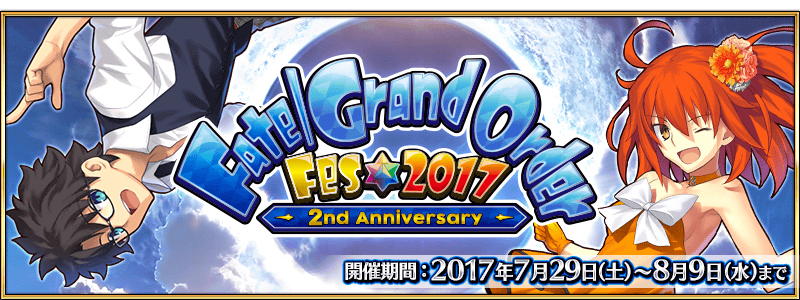
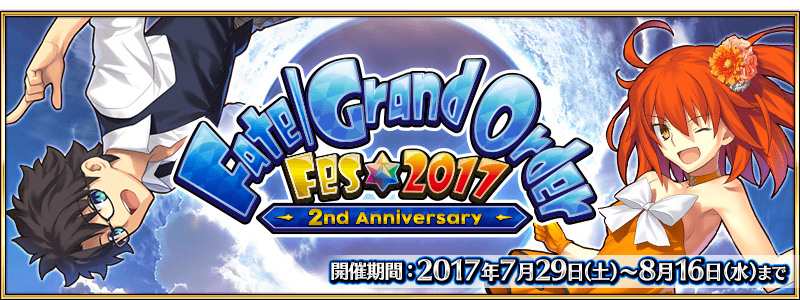
「FGO Fes. 2017 ～2nd Anniversary～」の開催期間延長

diff --git a/event_2nd_fgofes2017.html b/event_2nd_fgofes2017.html
@@ -61,7 +61,11 @@
 <p><img alt="" height="300" src="common/images/2017/2nd_fgofes2017_full_lipxg/info_image_01.png" width="800"/></p>
 <!-- block -->
 <p><span class="diamond">◆</span><span class="strong">活動舉辦期間</span><span class="diamond">◆</span><br/>
-<span class="em01">2017年7月29日(六) 8:00～8月9日(三) 11:59</span></p>
+<span class="em01">2017年7月29日(六) 8:00～<s>8月9日(三) 11:59</s><span class="notice">8月16日(三) 11:59<br/>
+※延長舉辦期間。</span><br/>
+※遊戲內的顯示中會有結束時間未變更的情況。<br/>
+　將會依序對應。<br/>
+※(8/7修正)</span></p>
 <!-- block -->
 <p style="margin-bottom: 5px;"><img alt="" src="common/images/2017/2nd_fgofes2017_full_lipxg/ca10_banner.png"/></p>
 <!-- block -->
@@ -146,7 +150,7 @@
 <table align="center" style=";" width="100%">
 <tbody>
 <tr>
-<th width="30%">連続登入<br/>日數</th>
+<th width="30%">連續登入<br/>天數</th>
 <th width="70%">禮物內容</th>
 </tr>
 <tr>
@@ -179,6 +183,53 @@
 </tr>
 </tbody>
 </table>
+<br/>
+<p class="em01">※(8/7 追記)<br/>
+2017年8月2日(三)17:00以後，由於一部份Android裝置中，發生點擊標題畫面時會有畫面變白無法進行的狀況問題所影響，對特別登入獎勵中斷的玩家做出下述的贈送對應。</p>
+<p><span class="diamond">◆</span><span class="strong">贈送對象者條件</span><span class="diamond">◆</span><br/>
+<span class="em01">條件1:裝置Android版的玩家<br/>
+條件2:特別登入獎勵在8月2日(三)17:00以後中斷的玩家</span><br/>
+<span class="diamond">◆</span><span class="strong">贈送的內容例</span><span class="diamond">◆</span><br/>
+<span class="em01">對特別登入獎勵中斷的玩家，做出下述贈送。<br/>
+請注意贈送內容會根據宣傳活動舉辦期間中的最初登入時間有所變化。</span><br/>
+<span class="notice">※已領取所有特別登入獎勵為對象外。</span></p>
+<table align="center" style=";" width="100%">
+<tbody>
+<tr>
+<th width="30%">登入時間</th>
+<th width="70%">贈送內容</th>
+</tr>
+<tr>
+<td bgcolor="#ECF2F3">7月31日(一) 3:00～<br/>8月1日(二) 2:59</td>
+<td bgcolor="#ECF2F3">第7天為止的特別登入獎勵</td>
+</tr>
+<tr>
+<td>8月1日(二) 3:00～<br/>8月2日(三) 2:59</td>
+<td>第6天為止的特別登入獎勵</td>
+</tr>
+<tr>
+<td bgcolor="#ECF2F3">8月2日(三) 3:00～<br/>8月3日(四) 2:59</td>
+<td bgcolor="#ECF2F3">第5天為止的特別登入獎勵</td>
+</tr>
+<tr>
+<td>8月3日(四) 3:00～<br/>8月4日(五) 2:59</td>
+<td>第4天為止的特別登入獎勵</td>
+</tr>
+<tr>
+<td bgcolor="#ECF2F3">8月4日(五) 3:00～<br/>8月5日(六) 2:59</td>
+<td bgcolor="#ECF2F3">第3天為止的特別登入獎勵</td>
+</tr>
+<tr>
+<td>8月5日(六) 3:00～<br/>8月6日(日) 2:59</td>
+<td>第2天為止的特別登入獎勵</td>
+</tr>
+<tr>
+<td bgcolor="#ECF2F3">8月6日(日) 3:00～<br/>8月7日(一) 2:59</td>
+<td bgcolor="#ECF2F3">第1天為止的特別登入獎勵</td>
+</tr>
+</tbody>
+</table>
+<p>※關於禮物的配發時期，會在日後公告。</p>
 <br/>
 <!-- block -->
 <p style="margin-bottom: 5px;"><img alt="" src="common/images/2017/2nd_fgofes2017_full_lipxg/midashi_03.png" id="midashi_03"/></p>
@@ -629,9 +680,15 @@
 另外，也有只限通過全部回憶關卡通過的Master才能參加的<span class="notice">高難易度的回憶關卡</span>。</p>
 <div style="float: right; margin-right: -7%; width:30%; max-width: 100px;"><img alt="" src="common/images/2017/2nd_fgofes2017_ao30j/chara_02.png" width="100%"/></div>
 <div><p><span class="diamond">◆</span><span class="strong">舉辦期間</span><span class="diamond">◆</span><br/>
-<span class="em01">2017年7月29日(六) 8:00～8月9日(三) 11:59</span></p></div>
+<span class="em01">2017年7月29日(六) 8:00～<s>8月9日(三) 11:59</s><span class="notice">8月16日(三) 11:59<br/>
+※延長舉辦期間。</span><br/>
+※遊戲內的顯示中會有結束時間未變更的情況。<br/>
+　將會依序對應。<br/>
+※(8/7修正)</span></p></div>
 <div><p><span class="diamond">◆</span><span class="strong">英靈正裝交換期間</span><span class="diamond">◆</span><br/>
-<span class="em01">2017年7月29日(六) 8:00～8月16日(三) 11:59</span></p></div>
+<span class="em01">2017年7月29日(六) 8:00～<s>8月16日(三) 11:59</s><span class="notice">8月23日(三) 11:59<br/>
+※延長交換期間。</span><br/>
+※(8/7修正)</span></p></div>
 <p style="clear: both;"><span class="diamond">◆</span><span class="strong">回憶關卡</span><span class="diamond">◆</span><br/>
 <span class="em01">對應主線關卡的通過狀況，會在迦勒底之門內開放各特異點的回憶關卡。</span><br/>
 </p><table align="center" style=";" width="100%">
@@ -741,7 +798,9 @@
 贈送在2017年7月30日(日) 12:00放送『「Fate/Grand Order」 迦勒底放送局 2周年SP』進行的特別番組連動宣傳活動報酬！<br/>
 ※特別番組及連動宣傳活動已結束。</p>
 <p><span class="diamond">◆</span><span class="strong">對象期間</span><span class="diamond">◆</span><br/>
-<span class="em01">2017年7月31日(一) AM3:00 ～ 8月7日(一) AM2:59</span></p>
+<span class="em01">2017年7月31日(一) AM3:00 ～ <s>8月7日(一) AM2:59</s><span class="notice">8月14日(一) AM2:59<br/>
+※延長對象期間。</span><br/>
+※(8/7修正)</span></p>
 <p><span class="diamond">◆</span><span class="strong">對應內容</span><span class="diamond">◆</span><br/>
 <span class="em01">聖晶石30個</span></p>
 <p><span class="diamond">◆</span><span class="strong">領取條件</span><span class="diamond">◆</span><br/>

diff --git a/gacha_happyybag2nd.html b/gacha_happyybag2nd.html
@@ -51,7 +51,11 @@
 <div style="height:10px; margin-top:-15px;"></div>
 <!-- block -->
 <p><span class="diamond">◆</span><span class="strong">「Fate/Grand Order Fes. 2017 ～2nd Anniversary～福袋召喚」期間</span><span class="diamond">◆</span><br/>
-<span class="em01">期間:2017年7月30日(日) 12:10～8月9日(三) 11:59<br/>
+<span class="em01">期間:2017年7月30日(日) 12:10～<s>8月9日(三) 11:59</s><span class="notice">8月16日(三) 11:59<br/>
+※延長舉辦期間。</span><br/>
+※遊戲內的顯示中會有結束時間未變更的情況。<br/>
+　將會依序對應。<br/>
+※(8/7修正)<br/>
 <br/>
 以期間限定舉辦「Fate/Grand Order Fes. 2017 ～2nd Anniversary～福袋召喚」！<br/>
 福袋召喚為<span class="notice">確定1位★5(SSR)Servant</span>的10次召喚！<br/>
